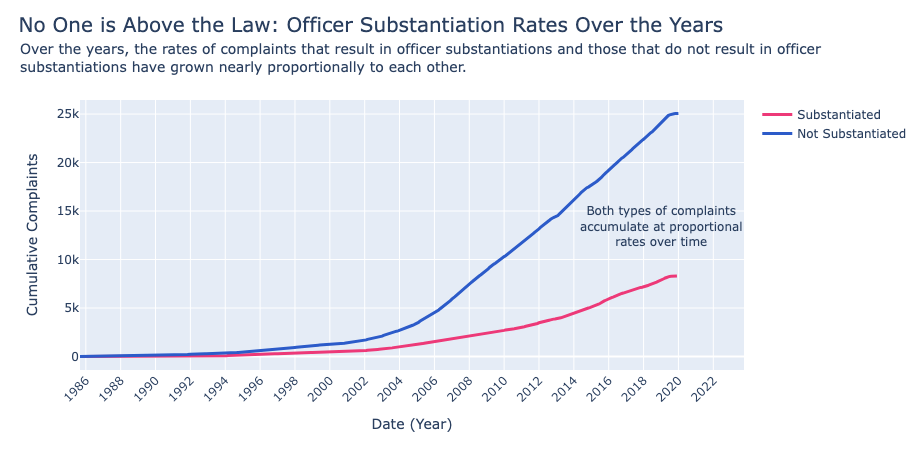
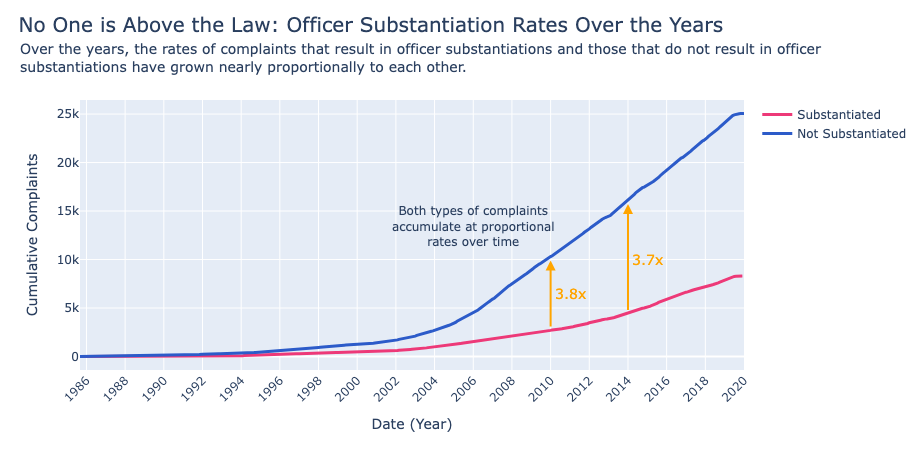
Updated plots and added rationales

diff --git a/index.html b/index.html
@@ -159,15 +159,28 @@
 
         <figure>
           <img src="imgs/figure1.png" alt="A line plot that shows rates of officer substantiations over the years." />
-          <figcaption>This plot shows that complaints resulting in officer substantiations and those not resulting in substantiations have grown at similar rates over time. The "Not Substantiated" line consistently stays above the "Substantiated" line, and the gap between them remains roughly proportional throughout.</figcaption>
+          <figcaption>This plot shows that complaints resulting in officer substantiations and those not resulting 
+            in substantiations have grown at similar rates over time. The "Not Substantiated" line consistently stays 
+            above the "Substantiated" line, and the gap between them remains roughly proportional throughout.</figcaption>
         </figure>
 
         <p>Design Decisions and Rationale:</p>
 
         <ul>
-          <li>RATIONALE_1</li>
-          <li>RATIONALE_2</li>
-          <li>RATIONALE_3</li>
+          <li>Title and description: I made sure to use language that would be in support of the proposition. Using 
+            the phrase "no one is above the law" creates an engaging and eye-catching title, and I honestly gave a 
+            description of the plot in the description. I would rate this decision's earnestness as 1.5.</li>
+          <li>Annotations: I really wanted this visualization to agree with the proposition's point that both lines 
+            grow proportional to each other, so I emphasized the proportional growth with orange arrows, which show 
+            the scalar by which you can multiply the value at the red line to reach the value at the blue line. 
+            Additionally, I added text which restates that both complaint types accumulate proportionally to each 
+            other. I would rate this decision's earnestness as 2.</li>
+          <li>Color: I chose colors that would stand out from each other and be unique. The blue color for the 
+            "Not Substantiated" line is a calm and neutral color, while the red color for the "Substantiated" line
+            is a more aggressive color. I chose the arrows to be orange, as orange is distinguishable from both 
+            blue and red, and clearly emphasizes the proportionality between the two lines. I would rate this decision's
+            earnestness as 2.</li>
+          </li>
         </ul>
       </section>
 
@@ -182,9 +195,26 @@
         <p>Design Decisions and Rationale:</p>
 
         <ul>
-          <li>RATIONALE_1</li>
-          <li>RATIONALE_2</li>
-          <li>RATIONALE_3</li>
+          <li>Grouping and aggregation: I created the "No Action Taken" and "Arrest/Summons Issued" categories by grouping
+            similar values together for each category. For example, values in the "Arrest/Summons Issued" category include
+            arrests of any kind, as well as summons of any kind. This makes the category of NYPD officers who have done wrongdoing
+            look larger than it would be if I had separated the arrests and summons into two separate categories. I would rate this decision's
+            earnestness as -1.</li>
+          </li>
+          <li>Title and description: I made sure to use negative language in my title to persuade the reader that more
+            recent years have seen a greater number of NYPD officers being punished for their actions. Using the phrase
+            "modern generations of NYPD officers are failing themselves" catches the reader's attention by utilizing a
+            negative connotation. I also stated in my description that the rate of complaints in which there is no action
+            taken has "fallen behind", emphasizing the idea that NYPD officers have become more troublesome over time. 
+            I would rate this decision's earnestness as -1.</li>
+          </li>
+          <li>Annotations: I wanted to emphasize that modern generations of officers have been more problematic than
+            officers of past years, so I annotated the plot with an orange line at the year 2005, which is when the
+            "Arrest/Summons Issued" line overtakes the "No Action Taken" line. I also added an arrow and text annotation
+            to make this point clear. The orange line serves a "divisor" between the older and newer years, and makes it 
+            easy to see that both lines have clearly not been growing proportionally to each other. I would rate this decision's
+            earnestness as 1.5.</li>
+          </li>
         </ul>
       </section>
 
